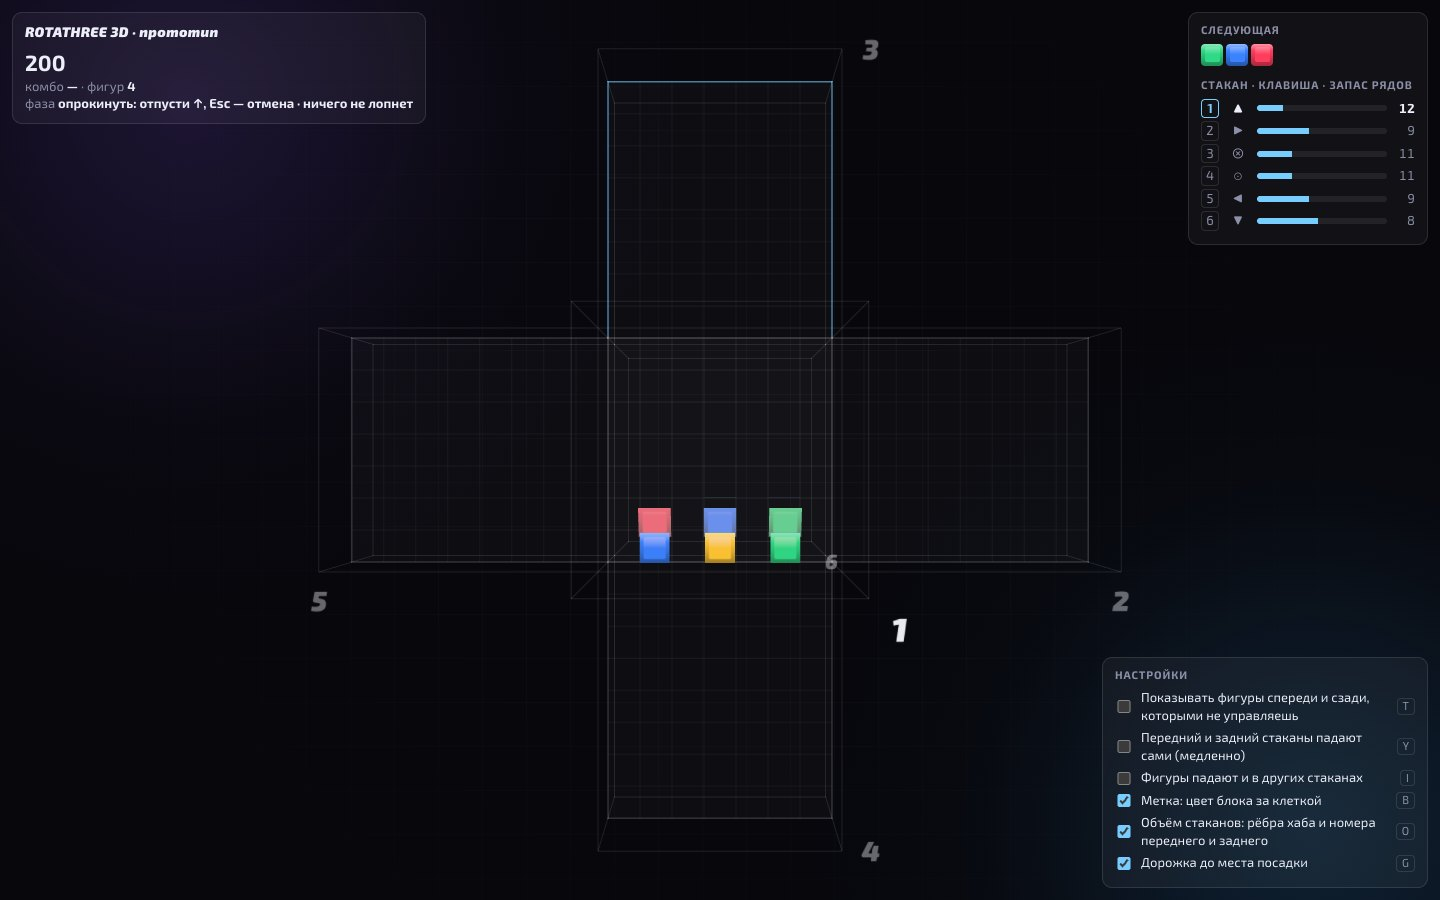
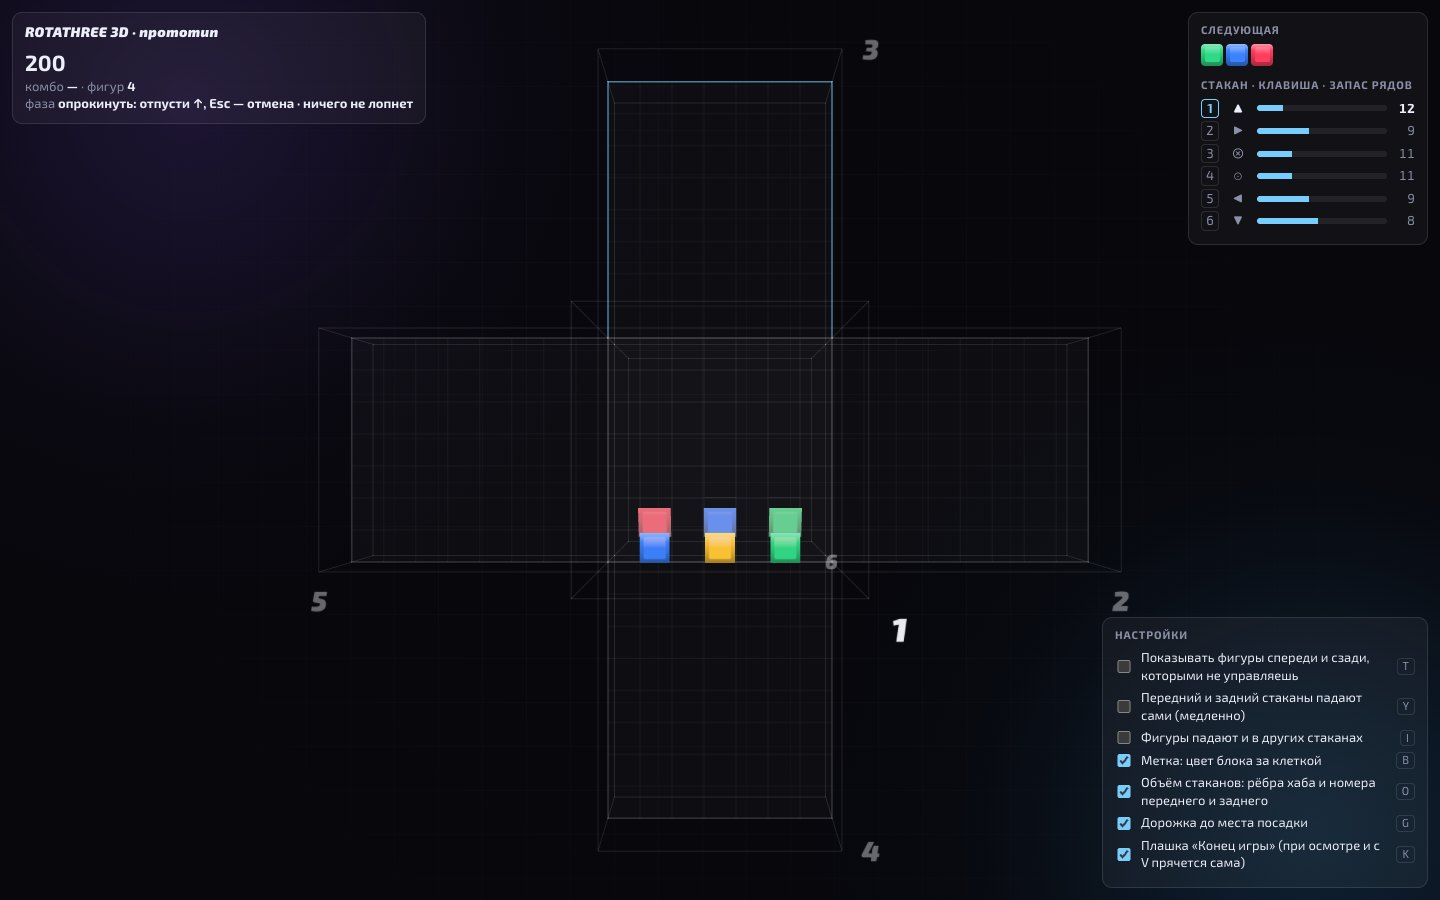
Let the 3D prototype be looked around after a loss
Once the game is over, ← → ↑ ↓ and Q E turn the hub to be looked at at
once, as when paused, to see how it was lost; Esc brings it back. The
game-over banner hides while the hub is turned or V is held, and a new
setting (K) hides it for good, leaving "конец игры" in the status line.
Before, the arrows turned the picture after a loss while the game no
longer took the turn.

Changed region(s): [[0.75, 0.6844, 0.9375, 0.9644]]

diff --git a/webapp/proto3d/main.js b/webapp/proto3d/main.js
@@ -74,6 +74,7 @@ const SETTINGS = [
   { id: 'behind', key: 'KeyB', label: 'Метка: цвет блока за клеткой', initial: true },
   { id: 'volume', key: 'KeyO', label: 'Объём стаканов: рёбра хаба и номера переднего и заднего', initial: true },
   { id: 'lane', key: 'KeyG', label: 'Дорожка до места посадки', initial: true },
+  { id: 'gameOverBanner', key: 'KeyK', label: 'Плашка «Конец игры» (при осмотре и с V прячется сама)', initial: true },
 ];
 const STORE = 'rotathree-proto3d-settings';
 const options = {
@@ -585,9 +586,10 @@ function turnHub(axis, quarters, { shown = false } = {}) {
   if (shown && game.phase === 'settling') game.phaseElapsed = game.phaseDuration;
 }
 
-/** While paused, the hub can be turned any way to be looked at: ← → about
- * the screen's upright, ↑ ↓ about its horizontal, Q E about the line of
- * sight. Nothing in the game changes; going on brings it back. */
+/** While paused, or once the game is over, the hub can be turned any way to
+ * be looked at: ← → about the screen's upright, ↑ ↓ about its horizontal,
+ * Q E about the line of sight. Nothing in the game changes; going on (or
+ * Esc) brings it back. */
 let inspect = null;
 
 function inspectTurn(axis, quarters) {
@@ -698,7 +700,8 @@ function press(code, { repeat = false } = {}) {
   if (options.peek && PEEK_KEYS[code]) {
     const [which, sign] = PEEK_KEYS[code];
     options[which] = sign;
-  } else if (options.paused && PLAY_KEYS.test(code)) {
+  } else if ((options.paused || game.isGameOver) && PLAY_KEYS.test(code)) {
+    // Paused, or the game over: the play keys look around instead.
     if (INSPECT_KEYS[code] && !repeat) inspectTurn(...INSPECT_KEYS[code]);
     else if (code === 'Escape') endInspect();
     else return false;
@@ -767,7 +770,6 @@ function restart() {
   turn.t = 1;
   pieceViews.clear();
   flashes.clear();
-  document.getElementById('banner').hidden = true;
 }
 
 // ------------------------------------------------------------------ frame
@@ -787,7 +789,6 @@ function consumeEvents() {
     } else if (event.type === 'gameEnded') {
       document.getElementById('banner-text').textContent =
         `Стакан ${SIDES[event.side].label} заполнен до края. Очки: ${game.score}.`;
-      document.getElementById('banner').hidden = false;
     }
   }
   game.events.length = 0;
@@ -1049,14 +1050,14 @@ function renderHud() {
     const { popped, rounds } = preview.result;
     const pops = popped === 0 ? 'ничего не лопнет' : `лопнет ${popped}${rounds > 1 ? `, каскад ×${rounds}` : ''}`;
     line = `опрокинуть: отпусти ${preview.code === 'ArrowUp' ? '↑' : '↓'}, Esc — отмена · ${pops}`;
-  } else if (options.paused) {
+  } else if (options.paused || game.isGameOver) {
     const { runs, cells } = inspect ? inspectLines() : { runs: 0, cells: new Set() };
     const lines = runs === 0 ? 'линий отсюда нет' : `линий отсюда: ${runs}, блоков ${cells.size}`;
-    line = inspect
-      ? `осмотр · ${lines} · P — вернуться к игре`
-      : 'стрелки, Q E — осмотреть хаб с любой стороны';
+    const back = game.isGameOver ? 'Esc — вернуть, N — новая игра' : 'P — вернуться к игре';
+    line = inspect ? `осмотр · ${lines} · ${back}` : 'стрелки, Q E — осмотреть хаб с любой стороны';
   }
-  $('phase').textContent = `${options.paused ? 'пауза · ' : ''}${line}`;
+  const ended = game.isGameOver ? `конец игры: стакан ${SIDES[game.gameOverSide].label} заполнен · ` : '';
+  $('phase').textContent = `${options.paused ? 'пауза · ' : ''}${ended}${line}`;
   const next = game.nextColors.join();
   if (next !== nextKey) {
     nextKey = next;
@@ -1094,7 +1095,7 @@ function renderKeys() {
     '<b>← →</b> — повернуть крест, как в 2D: левый / правый стакан наверх',
     '<b>↑ ↓</b> (держать) — показать, как ляжет хаб, если задний / передний стакан опрокинуть наверх; отпустить — опрокинуть; <b>Esc</b> — отмена',
     '<b>V</b> (держать) — заглянуть в объём; <b>W A S D</b> при этом — откуда смотреть: сверху/снизу, слева/справа',
-    '<b>P</b> — пауза; на паузе <b>← → ↑ ↓ Q E</b> поворачивают хаб, чтобы осмотреть его с любой стороны; линии мигают',
+    '<b>P</b> — пауза; на паузе и после конца игры <b>← → ↑ ↓ Q E</b> поворачивают хаб, чтобы осмотреть его с любой стороны; линии мигают; <b>Esc</b> — вернуть',
     '<b>F</b> — набросать блоков',
     '<b>N</b> — заново · <b>H</b> — спрятать подсказку',
   ].map((line) => `<div>${line}</div>`).join('');
@@ -1162,6 +1163,8 @@ function frame(now) {
     sprite.visible = volume || !alongSight;
     sprite.material.opacity = side === game.active ? 0.95 : 0.4;
   });
+  // The game-over banner keeps out of the way of a look around.
+  $('banner').hidden = !(game.isGameOver && options.gameOverBanner && !inspect && peek < 0.05);
   buildBlocks(dt);
   renderHud();
   renderer.render(scene, camera);

diff --git a/webapp/proto3d/NOTES.md b/webapp/proto3d/NOTES.md
@@ -101,7 +101,9 @@ After review the rules follow what the screen shows.
   of sight. Nothing in the game changes, the blocks that would make lines
   from that side blink, and the panel counts them (`12`; in the open with V,
   `13`). Esc or going on rolls it back to where the game is; the play keys
-  rest meanwhile.
+  rest meanwhile. Once the game is over the same keys look around at once,
+  to see how it was lost; the banner hides while the hub is turned or V is
+  held, and a setting (K) hides it for good (`18`).
 - **Keys, one meaning each.**
   - A/D move left and right.
   - W turns the stick on top, as in 2D, and moves a front or back stick up.
@@ -125,7 +127,8 @@ After review the rules follow what the screen shows.
   - the volume of the glasses (O), on — off hides the edges of the hub and
     the numbers of the glasses in front and behind, so that it looks like the
     2D game and they are kept in mind (`15`);
-  - the aiming lane (G), on.
+  - the aiming lane (G), on;
+  - the game-over banner (K), on.
 
 What reads well:
 
